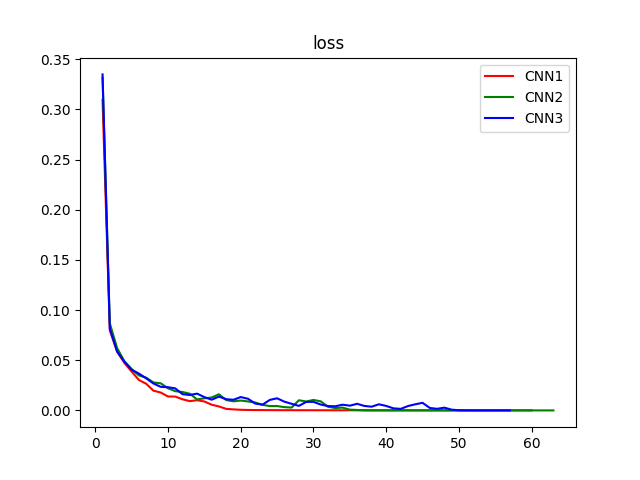
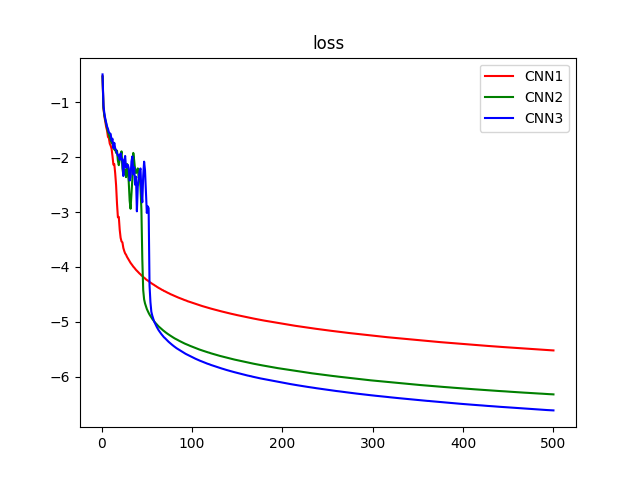
update mnist graph

diff --git a/hw1/vis/hw1-1/plot_loss_acc.py b/hw1/vis/hw1-1/plot_loss_acc.py
@@ -10,45 +10,45 @@ import os
 from math import log
 
 if __name__ == '__main__':
-    arch_list = ['DNN-2', 'DNN-5', 'DNN-8']
-    color_list = ['r', 'g', 'b']
-    plt.figure()
-    for arch, color in zip(arch_list, color_list):
-        checkpoint = torch.load('../../saved/{}/checkpoint-epoch10000.pth'.format(arch))
-        logger = checkpoint['logger']
-        print(arch, len(logger))
-        x = [entry['epoch'] for _, entry in logger.entries.items()]
-        y = [log(entry['loss'], 10) for _, entry in logger.entries.items()]
-        plt.ylabel('log loss')
-        plt.plot(x, y, color = color, label = arch)
-        plt.legend(loc="best")
-    
-    plt.savefig('plot_loss_acc_func_figure.png')
-
-    # arch_list = ['CNN1', 'CNN2', 'CNN3']
+    # arch_list = ['DNN-2', 'DNN-5', 'DNN-8']
     # color_list = ['r', 'g', 'b']
     # plt.figure()
     # for arch, color in zip(arch_list, color_list):
-    #     checkpoint = torch.load('../../saved/{}/model_last.pth'.format(arch))
+    #     checkpoint = torch.load('../../saved/{}/checkpoint-epoch10000.pth'.format(arch))
     #     logger = checkpoint['logger']
+    #     print(arch, len(logger))
     #     x = [entry['epoch'] for _, entry in logger.entries.items()]
-    #     loss = [entry['loss'] for _, entry in logger.entries.items()]
-        
-    #     plt.title('loss')
-    #     plt.plot(x, loss, color = color, label = arch)
+    #     y = [log(entry['loss'], 10) for _, entry in logger.entries.items()]
+    #     plt.ylabel('log loss')
+    #     plt.plot(x, y, color = color, label = arch)
     #     plt.legend(loc="best")
-    # plt.savefig('plot_loss_mnist_figure.png')
+    
+    # plt.savefig('plot_loss_acc_func_figure.png')
 
-    # plt.figure()
-    # for arch, color in zip(arch_list, color_list):
-    #     checkpoint = torch.load('../../saved/{}/model_last.pth'.format(arch))
-    #     logger = checkpoint['logger']
-    #     x = [entry['epoch'] for _, entry in logger.entries.items()]
-    #     acc = [entry['my_metric'] for _, entry in logger.entries.items()]
+    arch_list = ['CNN1', 'CNN2', 'CNN3']
+    color_list = ['r', 'g', 'b']
+    plt.figure()
+    for arch, color in zip(arch_list, color_list):
+        checkpoint = torch.load('../../saved/{}/model_last.pth'.format(arch))
+        logger = checkpoint['logger']
+        x = [entry['epoch'] for _, entry in logger.entries.items()]
+        y = [log(entry['loss'], 10) for _, entry in logger.entries.items()]
         
-    #     plt.title('acc')
-    #     plt.plot(x, acc, color = color, label = arch)
-    #     plt.legend(loc="best")
-    # plt.savefig('plot_acc_mnist_figure.png')
+        plt.title('loss')
+        plt.plot(x, y, color = color, label = arch)
+        plt.legend(loc="best")
+    plt.savefig('plot_loss_mnist_figure.png')
+
+    plt.figure()
+    for arch, color in zip(arch_list, color_list):
+        checkpoint = torch.load('../../saved/{}/model_last.pth'.format(arch))
+        logger = checkpoint['logger']
+        x = [entry['epoch'] for _, entry in logger.entries.items()]
+        y = [log(entry['my_metric'], 10) for _, entry in logger.entries.items()]
+        
+        plt.title('acc')
+        plt.plot(x, y, color = color, label = arch)
+        plt.legend(loc="best")
+    plt.savefig('plot_acc_mnist_figure.png')
         
     

diff --git a/hw1/vis/hw1-2/plot_grad_loss.py b/hw1/vis/hw1-2/plot_grad_loss.py
@@ -11,7 +11,7 @@ from math import log
 
 
 if __name__ == '__main__':
-
+    """
     arch_list = ['DNN-8']
     color_list = ['b']
     plt.figure()
@@ -33,7 +33,8 @@ if __name__ == '__main__':
         plt.legend(loc="best")
     plt.tight_layout()
     plt.savefig('plot_grad_loss_func.png')
-'''
+
+    """
     arch_list = ['CNN2']
     color_list = ['b']
     plt.figure()
@@ -41,8 +42,8 @@ if __name__ == '__main__':
         checkpoint = torch.load('../../saved/{}/model_last.pth'.format(arch))
         logger = checkpoint['logger']
         x = [entry['epoch'] for _, entry in logger.entries.items()]
-        loss = [entry['loss'] for _, entry in logger.entries.items()]
-        grad_norm = [entry['grad_norm'] for _, entry in logger.entries.items()]
+        loss = [log(entry['loss'], 10) for _, entry in logger.entries.items()]
+        grad_norm = [log(entry['grad_norm'], 10) for _, entry in logger.entries.items()]
 
         plt.subplot(2, 1, 1)
         plt.title('loss')
@@ -55,4 +56,4 @@ if __name__ == '__main__':
         plt.legend(loc="best")
     plt.tight_layout()
     plt.savefig('plot_grad_loss_mnist.png')
-'''  
+
